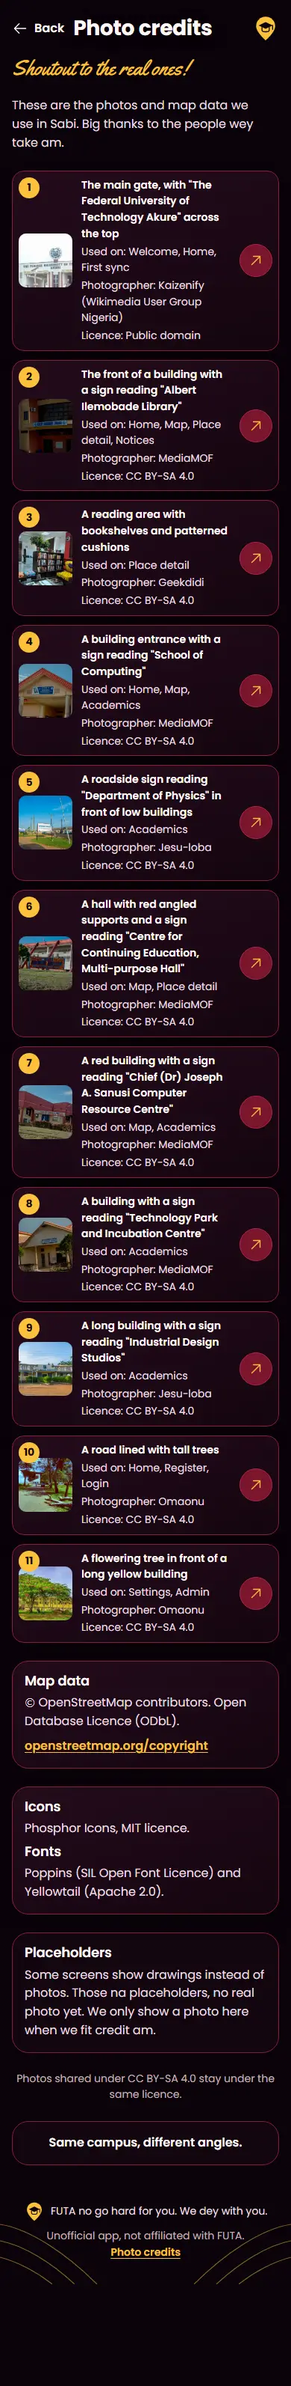
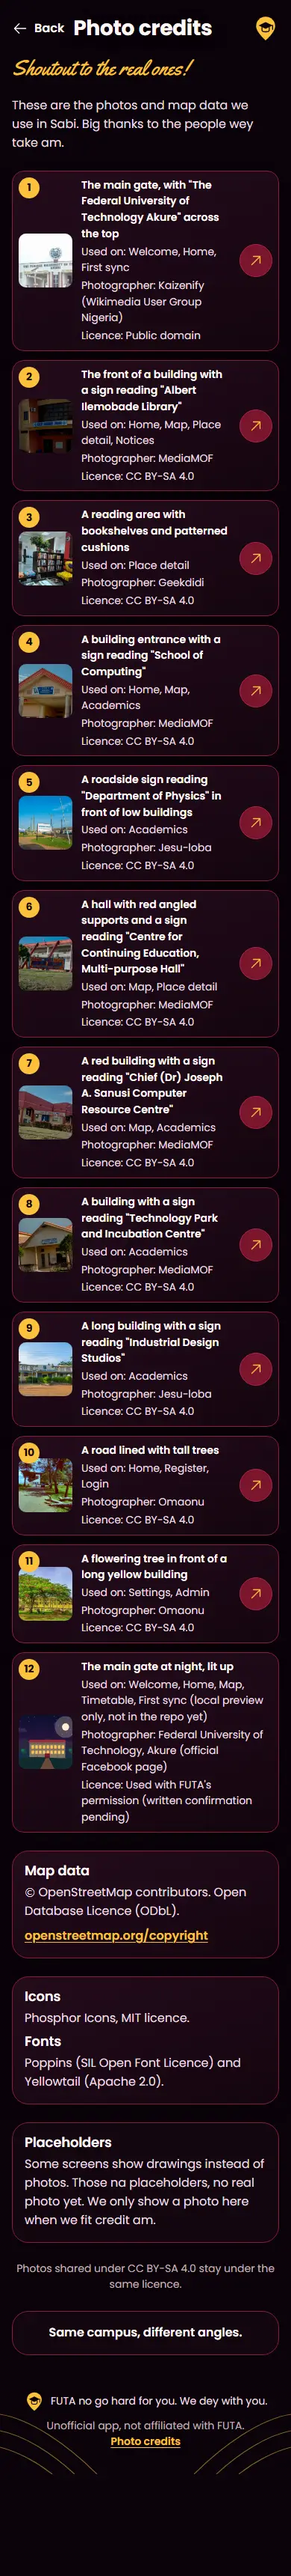
docs/design: Welcome as approved, night gate credit, README precedence line
- Welcome: remove the feature card; the approved mockup has none.
- Credit the night gate photo to FUTA's official Facebook page (used with
  FUTA's permission), in CREDITS.md and on the credits screen. FUTA's
  written OK is pending, so the file stays local-only and is not committed.
  check.mjs now fails if any photos-local file is tracked.
- README: the approved mockups win over the prototype wherever they differ.

diff --git a/docs/design/prototype/assets/app.css b/docs/design/prototype/assets/app.css
@@ -9,7 +9,7 @@
 /* Hallmark · answered F7 · pills sit on controls, chips, the tab bar, badges and avatars; cards and photos take --radius-card */
 /* Hallmark · waive 72 · details.proto, the review bar fixed at the edge · the prototype's state and theme bar is review chrome the app never ships */
 /* Hallmark · waive 80 · svg.scene, svg.campus-map · the drawn scene is the fallback behind every photo slot and the whole look in Lite; the map is OpenStreetMap data drawn as vectors, which is what a map is */
-/* Hallmark · answered F5 · .iconbtn, .dept__icon, .pillar__icon, .tile__ic, .door-style discs · each is one round plate that holds one icon, the mockups' own device; there is one per element, never a tinted coin under a card icon */
+/* Hallmark · answered F5 · .iconbtn, .dept__icon, .tile__ic, .door-style discs · each is one round plate that holds one icon, the mockups' own device; there is one per element, never a tinted coin under a card icon */
 /* Hallmark · waive 29 · .badge-ring · the mockups' countdown badge: the gold ring is its glow; the shadow is neutral and offset */
 /* Note: Hallmark's static pass reads gate 40 (1.37:1, 1.57:1) on .tile__ic and .icon-cell as if their gold icons sat on a light fallback. Computed in the browser they are gold #fcc13c on #12050e and #1b0714 (about 11:1), and they are non-text. Dismissed in LOG.md. */
 /* Hallmark · waive 39b · .btn--lg, the 56px actions · the mockups' primary buttons, sized for a thumb */
@@ -454,7 +454,7 @@ a.srow, .srow--btn { cursor: pointer; }
 .credits { display: grid; gap: var(--space-sm); }
 .credit { grid-template-columns: 4.5rem minmax(0, 1fr) auto; align-items: center; column-gap: var(--space-sm); padding: var(--space-xs); border-radius: var(--radius-md); }
 .credit__pic { width: 4.5rem; height: 4.5rem; border-radius: var(--radius-sm); } .credit .num-badge { position: absolute; left: var(--space-xs); top: var(--space-xs); margin: 0; width: 1.75rem; }
-.credit__body { display: grid; gap: var(--space-3xs); min-width: 0; } .credit__body b { overflow-wrap: anywhere; font-size: var(--text-sm); } .credit__body small { color: var(--color-text-2); overflow-wrap: anywhere; }
+.credit__body { display: grid; gap: var(--space-3xs); min-width: 0; } .credit__body b { overflow-wrap: anywhere; font-size: var(--text-sm); } .credit__body small { color: var(--color-text-2); overflow-wrap: anywhere; } .credit__body .pending { color: var(--color-amber); font-weight: var(--weight-strong); }
 .role-bar { display: flex; align-items: center; gap: var(--space-sm); min-height: 3.5rem; padding: var(--space-xs) var(--space-md); border-radius: var(--radius-pill); border: var(--outline) solid var(--color-outline); background: var(--color-field); color: var(--color-text); } .role-bar .ic { color: var(--color-gold); }
 .tiles { display: grid; gap: var(--space-sm); grid-template-columns: repeat(auto-fit, minmax(min(100%, 9rem), 1fr)); }
 .tile { position: relative; display: grid; gap: var(--space-xs); min-height: 12.5rem; padding: var(--space-md); border-radius: var(--radius-card); border: var(--outline) solid var(--color-outline); background: var(--grad-card); text-decoration: none; align-content: start; color: var(--color-text-2); }
@@ -501,9 +501,7 @@ body.is-sheet { overflow: hidden; }
 .index-group { display: grid; gap: var(--space-sm); } .index { display: grid; gap: var(--space-sm); grid-template-columns: repeat(auto-fit, minmax(min(100%, 13rem), 1fr)); } .index__item { padding: var(--space-sm) var(--space-md); }
 .index__link { display: flex; align-items: center; justify-content: space-between; gap: var(--space-sm); min-height: var(--hit); font-weight: var(--weight-display); font-size: var(--text-lg); text-decoration: none; color: var(--color-text); }
 .index__states { display: flex; flex-wrap: wrap; gap: var(--space-2xs) var(--space-sm); } .index__states a { display: inline-flex; align-items: center; min-height: var(--hit); color: var(--color-gold); font-size: var(--text-sm); }
-.pillars { grid-template-columns: minmax(0, 1fr); gap: 0; padding: 0; border-color: var(--color-gold); } .pillars li { display: grid; grid-template-columns: auto minmax(0, 1fr) auto; gap: var(--space-sm); align-items: center; padding: var(--space-sm) var(--space-md); border-top: var(--rule-hair) solid var(--color-rule); color: var(--color-gold); } .pillars li:first-child { border-top: 0; } .pillars li > span:nth-child(2) { display: grid; color: var(--color-text-2); } .pillars small { color: var(--color-muted); font-size: var(--text-sm); }
-.pillar__icon { display: grid; place-items: center; width: 3rem; height: 3rem; border-radius: 50%; border: var(--outline) solid var(--color-outline); background: var(--color-bg-raised); }
-.main--welcome .page { padding-top: var(--space-md); }
+.main--welcome .page:empty { display: none; }
 
 /* ---------------------------------------------------------------- the prototype bar (review chrome, not the app) */
 .proto { position: fixed; z-index: var(--z-dialog); left: var(--space-xs); top: 50%; translate: 0 -50%; max-width: calc(100% - 2 * var(--space-xs)); width: 16rem; border-radius: var(--radius-md); background: var(--color-card); color: var(--color-text); border: var(--outline) solid var(--color-outline); box-shadow: var(--shadow-float); font-size: var(--text-sm); }

diff --git a/docs/design/prototype/assets/pack.js b/docs/design/prototype/assets/pack.js
@@ -8,7 +8,7 @@
 // the Settings screen (localStorage "sabi-pack"). The default is ready. ?local=0 hides the photos that live
 // in photos-local/ (David's own, not in the repo), which is how the committed screenshots are made.
 //
-// Every entry below is a real photo with a verified Wikimedia Commons file page. Authors and licences
+// Every entry below is a real photo with a verified credit: a Wikimedia Commons file page, or (the one local-only entry) FUTA's own page and permission. Authors and licences
 // were read from the Commons API on 2026-10-27 and are repeated in docs/design/CREDITS.md. A name is
 // shown only when the photo itself shows it on a sign; otherwise alt text says only what is visible.
 (function () {
@@ -29,8 +29,10 @@
     studios: [['#99c3e0', '#6c7a6c', '#877042'], 'A long building with a sign reading "Industrial Design Studios"', 'Jesu-loba', BYSA, C + 'Industrial_Design_Studios,_Federal_University_of_Technology,_Akure2.jpg', 'Academics'],
     road: [['#5b6766', '#5f653d', '#77865e'], 'A road lined with tall trees', 'Omaonu', BYSA, C + 'FUTA_farm_road.jpg', 'Home, Register, Login'],
     tree: [['#98b2b6', '#718244', '#847c28'], 'A flowering tree in front of a long yellow building', 'Omaonu', BYSA, C + 'School_of_Engineering_building_beside_ETF_FUTA.jpg', 'Settings, Admin'],
-    // David's own photos, source not recorded, kept out of git. The committed screenshots never show them.
-    'local-gate-night': [['#0a0f2a', '#3a2418', '#1a1208'], 'The main gate at night, lit up', 'supplied by David, source not recorded', 'no licence known (local only)', '', 'Welcome, Home (local preview only)', 1],
+    // The night gate: a photo from FUTA's official Facebook page, used with FUTA's permission. David is adding
+    // FUTA's written OK, which is still pending, so the file stays LOCAL ONLY (photos-local/, out of git) until he
+    // confirms. The committed screenshots never show it (they use ?local=0).
+    'local-gate-night': [['#0a0f2a', '#3a2418', '#1a1208'], 'The main gate at night, lit up', 'Federal University of Technology, Akure (official Facebook page)', "Used with FUTA's permission (written confirmation pending)", '', 'Welcome, Home, Map, Timetable, First sync (local preview only, not in the repo yet)', 1],
   };
   function root() { return document.documentElement; }
   function state() {

diff --git a/docs/design/prototype/assets/screens-app.js b/docs/design/prototype/assets/screens-app.js
@@ -26,15 +26,12 @@
 
   // ---------------------------------------------------------------- Welcome
   screens.welcome = function () {
-    var pillars = C.welcome.pillars.map(function (p, i) {
-      return '<li><span class="pillar__icon">' + ic(['map-pin', 'book-open-text', 'bell'][i]) + '</span><span><b>' + esc(p.title) + '</b><small>' + esc(p.body) + '</small></span>' + ic('arrow-right', 'ic--sm') + '</li>';
-    }).join('');
     U.shell({
       title: C.welcome.title, tabs: false, mainCls: 'main--welcome', sample: false,
       hero: U.hero({ size: 'tall', cls: 'hero--welcome', photo: NIGHT_GATE, scene: 'gate', seed: 11, people: [[0, 92, 'walk'], [1, 326, 'wave']], kicker: C.welcome.kicker, title: C.welcome.title, gold: C.welcome.titleGold, lead: C.welcome.lead, noProfile: true, id: 'w-h',
         after: '<div class="cta">' + U.btn(C.welcome.start, { kind: 'maroon', href: U.href('sync'), after: 'arrow-right', cls: 'btn--block btn--lg' }) + '</div>' +
           '<p class="login-line">' + t('welcome.haveAccount') + ' <a href="' + U.href('login') + '">' + t('welcome.login') + '</a></p>' }),
-      content: '<ul class="pillars card" aria-label="' + t('welcome.title') + '">' + pillars + '</ul>',
+      content: '',
     });
   };
 

diff --git a/docs/design/prototype/assets/copy.js b/docs/design/prototype/assets/copy.js
@@ -69,12 +69,6 @@ window.SABI_COPY = {
     start: 'Oya, make we start!',
     haveAccount: 'I don get account.',
     login: 'Log in',
-    pillars: [
-      { title: 'Find your way', body: 'Lecture theatre, library, hostel. No waka aimlessly.' },
-      { title: 'Know your academics', body: 'Schools, courses and timetable, all in one place.' },
-      { title: 'See the gist', body: 'Notices from SUG, your school and your department.' },
-    ],
-    dots: 'Step {n} of {total}',
   },
 
   home: {
@@ -420,6 +414,7 @@ window.SABI_COPY = {
     fontsBody: 'Poppins (SIL Open Font Licence) and Yellowtail (Apache 2.0).',
     footer: 'Same campus, different angles.',
     none: 'No photo dey downloaded, so no credit to show. Download the photo pack in Settings.',
+    pending: 'Written permission from FUTA is still pending. This photo is not shared yet.',
     placeholdersTitle: 'Placeholders',
     placeholdersBody: 'Some screens show drawings instead of photos. Those na placeholders, no real photo yet. We only show a photo here when we fit credit am.',
     attribution: 'Photos shared under CC BY-SA 4.0 stay under the same licence.',

diff --git a/docs/design/prototype/assets/screens-user.js b/docs/design/prototype/assets/screens-user.js
@@ -201,8 +201,8 @@
 
   // ---------------------------------------------------------------- Photo credits
   screens.credits = function () {
-    // Only photos we can credit are listed. Local-only photos have no known licence: they are placeholders, not credits.
-    var shown = PK.ids.map(PK.info).filter(function (p) { return !p.local; });
+    // Every photo we can credit is listed. The night gate is credited to FUTA but is not in the repo yet (written permission pending), so its row says so.
+    var shown = PK.ids.map(PK.info);
     var cards = shown.map(function (p, i) {
       return '<li class="card credit">' + PK.slot(p.id, 's', SC.scene('block', { daypart: 'night', seed: 70 + i }), 'credit__pic') + '<span class="num-badge">' + (i + 1) + '</span>' +
         '<div class="credit__body"><b>' + esc(p.alt) + '</b><small>' + t('credits.used', { where: p.used }) + '</small><small>' + t('credits.author', { author: p.author }) + '</small><small>' + t('credits.licence', { licence: p.licence }) + '</small></div>' +

diff --git a/docs/design/CREDITS.md b/docs/design/CREDITS.md
@@ -6,7 +6,7 @@ Where every photo, map, icon and font in the design came from, its licence, and 
 
 ## Rules this follows
 
-- **Sources:** openly licensed images only (Wikimedia Commons), plus the photos David supplied, which have no recorded licence and stay out of the repo.
+- **Sources:** openly licensed images (Wikimedia Commons) in the repo. Photos David supplied stay out of the repo: the night gate is credited to FUTA with permission pending, and the rest have no recorded licence.
 - **Names:** a building is named only when its sign is readable in the photo. Otherwise the alt text says what is visible and nothing more.
 - **Faces:** no identifiable faces. The one photo with people in the street was cropped above them.
 - **Processing:** each photo was cropped where noted, resized to 768 px and 384 px wide and re-encoded as WebP in headless Chrome, which drops all EXIF, GPS and camera metadata. `tools/budget.mjs` fails if any file has EXIF or XMP, or is over 60 KB.
@@ -32,21 +32,26 @@ Each is in the repo at two sizes: `<id>-l.webp` (768 px) and `<id>-s.webp` (384 
 
 Of these, the photos used in the app screens are listed with where in `assets/pack.js` (the "used on" field).
 
-## David's photos (`docs/design/photos-source/`, and `inspo/images (2).jpg`)
+## The night gate photo (local only, permission pending)
 
-**None is in the repo.** The prototype uses the local-only copies in `prototype/photos-local/` when they are on the machine, and falls back to the Commons photo or the drawn scene when they are not. The committed screenshots are taken with `?local=0`, so they never show them.
+| File | What it shows | Credit | Status |
+|---|---|---|---|
+| `prototype/photos-local/local-gate-night-{l,s}.webp` (from `inspo/images (2).jpg`) | The main gate at night, lit up, three people at its left | **Photo: Federal University of Technology, Akure (official Facebook page)** | **Used with FUTA's permission. FUTA's written confirmation is pending (David is adding it).** The file is **not in the repo and must not be committed until David confirms.** It is kept in `prototype/photos-local/`, which `.git/info/exclude` keeps out of git. |
+
+- **Where it shows:** the Welcome, Home, Map, Timetable and First sync heroes, **on David's machine only**. A fresh clone shows the credited daytime `gate` photo (darkened) or the drawn gate scene. The committed screenshots are taken with `?local=0` and never show it.
+- **The credits screen** lists it with the credit above and the line "Written permission from FUTA is still pending. This photo is not shared yet."
+- **Faces:** three people stand at the left of the gate, small and unidentifiable. If FUTA's written OK does not cover them, crop them out before it is committed.
+- **To move it into the repo** once David has FUTA's written OK: record the confirmation here, move the two files to `prototype/pack/photos/`, remove the local flag (the last `1`) in `assets/pack.js`, and run `node docs/design/tools/budget.mjs` and `check.mjs`.
+
+## David's other photos (`docs/design/photos-source/`)
+
+**None is in the repo.** They are placeholders on David's machine, never listed as credited.
 
 | File | What it shows | Source and permission | Use |
 |---|---|---|---|
-| `inspo/images (2).jpg` | The main gate at night, lit up, three people at its left | No source recorded; no licence known | Local only as `local-gate-night`. Welcome, Home, Map and Timetable heroes show it on David's machine; a fresh clone shows the `gate` photo (day) with the night treatment, or the drawn scene |
-| `photos-source/Federal_University_of_Technology,_Akure.jpg` | The main gate, with people in the street | Same title and size as the public-domain Commons file above | In the repo as `gate`, cropped above the people |
-| `FUTA.webp`, `images (2).jpg`, `images (3).jpg`, `images (4).jpg`, `cropped-Oasdom-…courses.jpg` | A gate, a red-roofed building, a tall building, a long yellow building, a cream building | No source recorded; no licence known | Local only (`prototype/photos-local/`); not used on a screen in this round |
-| `photos-source/Federal-University-of-Technology-Akure-FUTA.jpeg` | The FUTA sign and crest | Carries another site's watermark and logo | Not used |
-
-To move a local photo into the repo:
-1. Find its owner and an open licence or written permission.
-2. Record it above.
-3. Move the files to `pack/photos/` and remove the local flag in `assets/pack.js`.
+| `Federal_University_of_Technology,_Akure.jpg` | The main gate, with people in the street | Same title and size as the public-domain Commons file above | In the repo as `gate`, cropped above the people |
+| `FUTA.webp`, `images (2).jpg`, `images (3).jpg`, `images (4).jpg`, `cropped-Oasdom-…courses.jpg` | A gate, a red-roofed building, a tall building, a long yellow building, a cream building | No source recorded; no licence known | Local only (`prototype/photos-local/`); not used on a screen |
+| `Federal-University-of-Technology-Akure-FUTA.jpeg` | The FUTA sign and crest | Carries another site's watermark and logo | Not used |
 
 ## The approved mockups (`docs/design/inspo/`, not in the repo)
 

diff --git a/docs/design/README.md b/docs/design/README.md
@@ -1,5 +1,7 @@
 # Sabi design handoff (docs/design)
 
+**The approved mockups in the design Inspo folder win over this prototype wherever they differ. The prototype is a reference for tokens, components, copy and states.**
+
 The handoff for the FUTA campus guide (working name **Sabi**), built from the approved mockups. It is **design only**: nothing in `web/src`, `api`, `db` or `docs/openapi.yaml` changed, and no dependency was added. **Dark only for now**; a light theme is a later task.
 
 Start with [prototype/index.html](prototype/index.html) (double-click it; it works from the file system with no server). Every screen has a **Prototype** button at the left edge: switch its state, Lite mode, the photo pack and who is signed in.
@@ -23,7 +25,7 @@ Start with [prototype/index.html](prototype/index.html) (double-click it; it wor
 1. **Five tabs only**: Home, Map, Academics, Timetable, Notices. Settings and Admin open from the profile icon (Admin only for admins).
 2. **"Verified" only when a record is truly verified** (an admin did it; who and when are in its Source). **Notices show their source** ("From SUG"), never "Verified".
 3. **"Sabi's privacy policy"**, not FUTA's. The footer says **"Unofficial app, not affiliated with FUTA."**
-4. **Every credit in the mockups was invented.** The credits here are read from the real Wikimedia Commons file pages (author, licence, link), see [CREDITS.md](CREDITS.md). Photos we cannot credit are **placeholders** (drawn scenes).
+4. **Every credit in the mockups was invented.** The credits here are read from the real Wikimedia Commons file pages (author, licence, link), see [CREDITS.md](CREDITS.md). Photos we cannot credit are **placeholders** (drawn scenes). The night gate photo is credited to FUTA's official Facebook page and stays local until FUTA's written OK arrives.
 5. **No invented lecturers or faces**: initials avatars and "Prof. A. Sample" style names.
 6. **At most one handwritten line per screen** (the hero kicker). Pidgin everywhere else; **the notice text is whatever the admin wrote**.
 7. **Email fields accept any email** (the placeholder is gmail, not futa.edu.ng).

diff --git a/docs/design/COPY.md b/docs/design/COPY.md
@@ -12,7 +12,7 @@ One file, every string, by screen and key. **This document is generated** from [
 - **It's Sabi's, not FUTA's.** The privacy policy is "Sabi's privacy policy". The footer says "Unofficial app, not affiliated with FUTA." It is "FUTA no go hard for you. We dey with you." as a friendly sign-off, not a claim of affiliation.
 - **Mechanics.** Sentence case. No em or en dashes. No emoji. Placeholders are {braces}. Plurals are separate keys (`department1`, `departments`).
 
-## Strings (599)
+## Strings (593)
 
 ### App (shared)
 
@@ -87,13 +87,6 @@ One file, every string, by screen and key. **This document is generated** from [
 | `welcome.start` | Oya, make we start! |
 | `welcome.haveAccount` | I don get account. |
 | `welcome.login` | Log in |
-| `welcome.pillars.0.title` | Find your way |
-| `welcome.pillars.0.body` | Lecture theatre, library, hostel. No waka aimlessly. |
-| `welcome.pillars.1.title` | Know your academics |
-| `welcome.pillars.1.body` | Schools, courses and timetable, all in one place. |
-| `welcome.pillars.2.title` | See the gist |
-| `welcome.pillars.2.body` | Notices from SUG, your school and your department. |
-| `welcome.dots` | Step {n} of {total} |
 
 ### Home
 
@@ -492,6 +485,7 @@ One file, every string, by screen and key. **This document is generated** from [
 | `credits.fontsBody` | Poppins (SIL Open Font Licence) and Yellowtail (Apache 2.0). |
 | `credits.footer` | Same campus, different angles. |
 | `credits.none` | No photo dey downloaded, so no credit to show. Download the photo pack in Settings. |
+| `credits.pending` | Written permission from FUTA is still pending. This photo is not shared yet. |
 | `credits.placeholdersTitle` | Placeholders |
 | `credits.placeholdersBody` | Some screens show drawings instead of photos. Those na placeholders, no real photo yet. We only show a photo here when we fit credit am. |
 | `credits.attribution` | Photos shared under CC BY-SA 4.0 stay under the same licence. |

diff --git a/docs/design/SCREENS.md b/docs/design/SCREENS.md
@@ -24,12 +24,12 @@ A short spec for every screen: what it is for, what is on it in order, its data,
 
 ## 1. Welcome (`welcome.html`)
 
-**For:** the first screen before anything is saved. **Mockups:** Welcome (night gate; "Get started"), and the "Oya, fresher!" variant. I used the second's copy and the first's layout (one maroon button, a text link for Log in), with the three pillars from the third as a card below.
-- Full-bleed night gate hero (the photo pack, or the drawn gate scene), logo lockup top left, no profile icon, no tab bar.
-- Handwritten "Oya, fresher!", title "Welcome to FUTA, **Akure**", one line, a maroon "Oya, make we start!" button (goes to First-time sync), "I don get account. Log in".
-- A gold-outlined card: Find your way, Know your academics, See the gist.
+**For:** the first screen before anything is saved. **Mockup:** Welcome (night gate; "Oya, fresher!"; one button; a text link for Log in). Exactly what the mockup has and nothing more.
+- Full-bleed night gate hero (the photo pack, or the drawn gate scene), the logo lockup top left, no profile icon, no tab bar.
+- Handwritten "Oya, fresher!", title "Welcome to FUTA, **Akure**", one line of text, a maroon "Oya, make we start!" button (goes to First-time sync), "I don get account. Log in", and the footer.
+- **No feature card.** (An earlier draft had three "Find your way / Know your academics / See the gist" rows; the approved mockup has none, so they were removed.)
 - **Data:** none. **States:** none (it is static).
-- **Photo:** `gate`; David's night photo when present locally. On first run no pack is on the phone, so the scene shows.
+- **Photo:** the night gate photo is local-only for now (see CREDITS.md); a fresh clone shows the credited daytime `gate` photo, darkened, or the drawn gate scene.
 
 ## 2. Home (`home.html`)
 **Mockups:** Dashboard (12 mins badge, Next Lecture, Latest Notice, Popular Places).

diff --git a/docs/design/LOG.md b/docs/design/LOG.md
@@ -360,3 +360,11 @@ The same fix list as the README. One decision worth recording: the Home "Latest 
 - **Impeccable `detect` was not re-run after the last fix batch** (the lockup plate, form container, cats grid, notice outline, headings, light theme removal), because I was told to stop. The batch was checked by Hallmark's render pass, the screenshot run (0 script errors) and a visual read, but **not** by the detector. Run `impeccable detect` on the prototype before trusting it.
 - **Light theme:** removed (code, tokens, screenshots), as asked.
 - **Not tested:** a screen reader, landscape, a real low-end phone, Firefox and Safari, 200% text on every new screen (only the screenshot looks at 200%, and no detector pass).
+
+## T6. Three fixes after review (27 Oct 2026)
+
+1. **Welcome:** the feature card (Find your way / Know your academics / See the gist) was removed; the approved mockup has none. COPY.md lost its 6 strings.
+2. **Night gate photo:** credited to "Federal University of Technology, Akure (official Facebook page)", used with FUTA's permission, in CREDITS.md and on the credits screen, with **FUTA's written OK marked pending**. The file stays local-only (not committed) until David confirms; `check.mjs` now fails if a photos-local file is ever tracked.
+3. **README:** a first line says the approved mockups in the Inspo folder win over the prototype wherever they differ.
+
+Re-run after the fixes: `check.mjs`, `budget.mjs` (56.1 KB core, 943 KB pack), the runtime network check (all pages local, 0 script errors), Hallmark `--render` (0 FAIL, 0 REFLEX, 0 WARN), screenshots of Welcome and Credits. Impeccable `detect` was still not re-run.

diff --git a/docs/design/BRIEF.md b/docs/design/BRIEF.md
@@ -20,7 +20,7 @@ The approved mockups, rebuilt as code: dark, the FUTA gate at night, crimson-out
 ## Open for David
 
 1. **Light theme.** Dark only for now, as asked. The light code and screenshots were removed.
-2. **Real photos.** The committed photos are the 11 we can credit. For a night gate hero, a hostel, the walkway and lecture theatres inside, we need photos with an owner and a licence (PHOTOS.md). Six of David's photos (including the night gate) have no recorded source, so they are placeholders on his machine only.
+2. **The night gate photo.** It comes from FUTA's official Facebook page, used with FUTA's permission, credited in CREDITS.md and on the credits screen. **FUTA's written OK is pending**, so the file stays local-only and is not committed until David confirms. Other missing photos (a hostel, the walkway, lecture theatres inside) need an owner and a licence (PHOTOS.md).
 3. **Map names.** Place names are exactly as written in OpenStreetMap, including odd spellings. FUTA needs to check them before any can say "Verified".
 4. **Academics data.** The schools and departments are sample data; the real list needs the data team.
 5. **Opening hours** are not known for any place, so every place says "Opening hours no dey" until an admin adds them.

diff --git a/docs/design/PHOTOS.md b/docs/design/PHOTOS.md
@@ -27,7 +27,7 @@ Hero text never sits on a raw photo. A night scrim is under every line (72% or m
 ## Which photos may be committed
 
 - **Committed** (`prototype/pack/photos/`): photos with an open licence and a verified credit. Today: 11 from Wikimedia Commons.
-- **Local only** (`prototype/photos-local/`, excluded from git): photos with no known licence. They are **placeholders on David's machine** and never listed as credited. The committed screenshots are taken with `?local=0`, so they show the credited photos or the drawings.
+- **Local only** (`prototype/photos-local/`, excluded from git): the night gate (FUTA's official Facebook page, credited, **written permission pending**) and photos with no known licence (placeholders, never credited). The committed screenshots are taken with `?local=0`, so they show the credited photos or the drawings.
 - To add a photo to the repo: find its owner and licence, record it in CREDITS.md and `assets/pack.js`, export at 768 and 384 px as WebP of at most 60 KB, run `node docs/design/tools/budget.mjs` and `check.mjs`.
 
 ## Photos wanted (no open photo exists yet)
